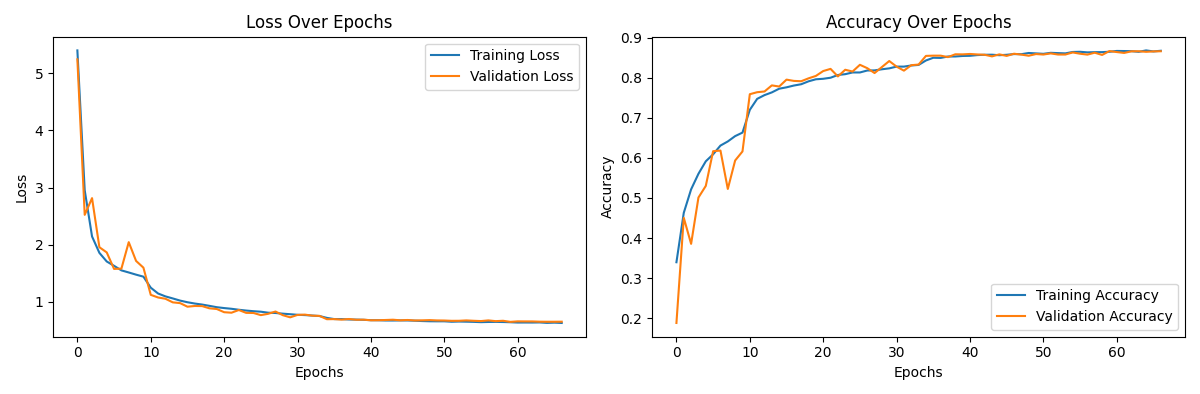
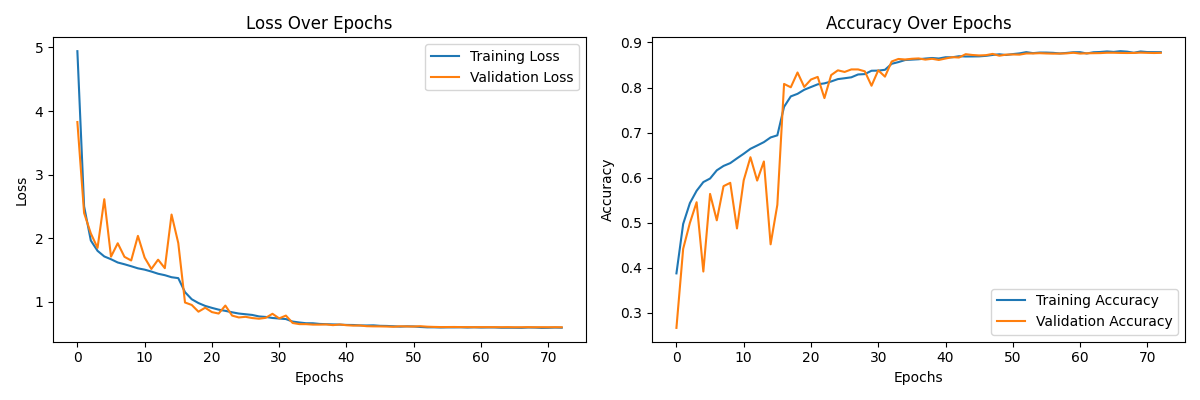
cnn_version2_updated

diff --git a/CNN_version2.py b/CNN_version2.py
@@ -67,35 +67,51 @@ class CnnModel:
         input_tensor = Input(shape=(size, size, 3))
         
         # Block 1
-        x = Conv2D(filters=64, kernel_size=3, padding='same', kernel_initializer='he_normal', activation='relu', kernel_regularizer=l2(0.001))(input_tensor)
-        x = Conv2D(filters=64, kernel_size=3, padding='same', kernel_initializer='he_normal', activation='relu', kernel_regularizer=l2(0.001))(x)
-        x = MaxPooling2D(pool_size=2)(x)
+        x = Conv2D(filters=64, kernel_size=3, padding='same', kernel_initializer='he_normal', kernel_regularizer=l2(0.001))(input_tensor)
         x = BatchNormalization()(x)
+        x = Activation('relu')(x)
+        x = Conv2D(filters=64, kernel_size=3, padding='same', kernel_initializer='he_normal', kernel_regularizer=l2(0.001))(x)
+        x = BatchNormalization()(x)
+        x = Activation('relu')(x)
+        x = MaxPooling2D(pool_size=2)(x)
         
         # Block 2
-        x = Conv2D(filters=128, kernel_size=3, padding='same', kernel_initializer='he_normal', activation='relu', kernel_regularizer=l2(0.001))(x)
-        x = Conv2D(filters=128, kernel_size=3, padding='same', kernel_initializer='he_normal', activation='relu', kernel_regularizer=l2(0.001))(x)
-        x = MaxPooling2D(pool_size=2)(x)
+        x = Conv2D(filters=128, kernel_size=3, padding='same', kernel_initializer='he_normal', kernel_regularizer=l2(0.001))(x)
         x = BatchNormalization()(x)
+        x = Activation('relu')(x)
+        x = Conv2D(filters=128, kernel_size=3, padding='same', kernel_initializer='he_normal', kernel_regularizer=l2(0.001))(x)
+        x = BatchNormalization()(x)
+        x = Activation('relu')(x)
+        x = MaxPooling2D(pool_size=2)(x)
         
         # Block 3
-        x = Conv2D(filters=256, kernel_size=3, padding='same', kernel_initializer='he_normal', activation='relu', kernel_regularizer=l2(0.001))(x)
-        x = Conv2D(filters=256, kernel_size=3, padding='same', kernel_initializer='he_normal', activation='relu', kernel_regularizer=l2(0.001))(x)
-        x = MaxPooling2D(pool_size=2)(x)
+        x = Conv2D(filters=256, kernel_size=3, padding='same', kernel_initializer='he_normal', kernel_regularizer=l2(0.001))(x)
         x = BatchNormalization()(x)
+        x = Activation('relu')(x)
+        x = Conv2D(filters=256, kernel_size=3, padding='same', kernel_initializer='he_normal', kernel_regularizer=l2(0.001))(x)
+        x = BatchNormalization()(x)
+        x = Activation('relu')(x)
+        x = MaxPooling2D(pool_size=2)(x)
         
         # Block 4
-        x = Conv2D(filters=512, kernel_size=3, padding='same', kernel_initializer='he_normal', activation='relu', kernel_regularizer=l2(0.001))(x)
-        x = Conv2D(filters=512, kernel_size=3, padding='same', kernel_initializer='he_normal', activation='relu', kernel_regularizer=l2(0.001))(x)
-        x = MaxPooling2D(pool_size=2)(x)
+        x = Conv2D(filters=512, kernel_size=3, padding='same', kernel_initializer='he_normal', kernel_regularizer=l2(0.001))(x)
         x = BatchNormalization()(x)
+        x = Activation('relu')(x)
+        x = Conv2D(filters=512, kernel_size=3, padding='same', kernel_initializer='he_normal', kernel_regularizer=l2(0.001))(x)
+        x = BatchNormalization()(x)
+        x = Activation('relu')(x)
+        x = MaxPooling2D(pool_size=2)(x)
         
         # Classifier
         x = Flatten()(x)
         x = Dropout(rate=0.3)(x)
-        x = Dense(units=512, activation='relu', kernel_regularizer=l2(0.001))(x)
+        x = Dense(units=512, kernel_initializer='he_normal', kernel_regularizer=l2(0.001))(x)
+        x = BatchNormalization()(x)
+        x = Activation('relu')(x)
         x = Dropout(rate=0.3)(x)
-        x = Dense(units=128, activation='relu', kernel_regularizer=l2(0.001))(x)
+        x = Dense(units=128, kernel_initializer='he_normal', kernel_regularizer=l2(0.001))(x)
+        x = BatchNormalization()(x)
+        x = Activation('relu')(x)
         output = Dense(units=10, activation='softmax')(x)
 
         model = Model(inputs=input_tensor, outputs=output)

diff --git a/model.py b/model.py
@@ -43,6 +43,8 @@ test_gen = ImageDataGenerator(rescale=1/255.0)
 flow_test_gen = test_gen.flow(x=test_images, y=test_ohe_labels, batch_size=32, shuffle=False)
 test_hist = model.evaluate(flow_test_gen)
 
+
+
 # 학습 기록 그래프
 history = tr_hist.history
 
